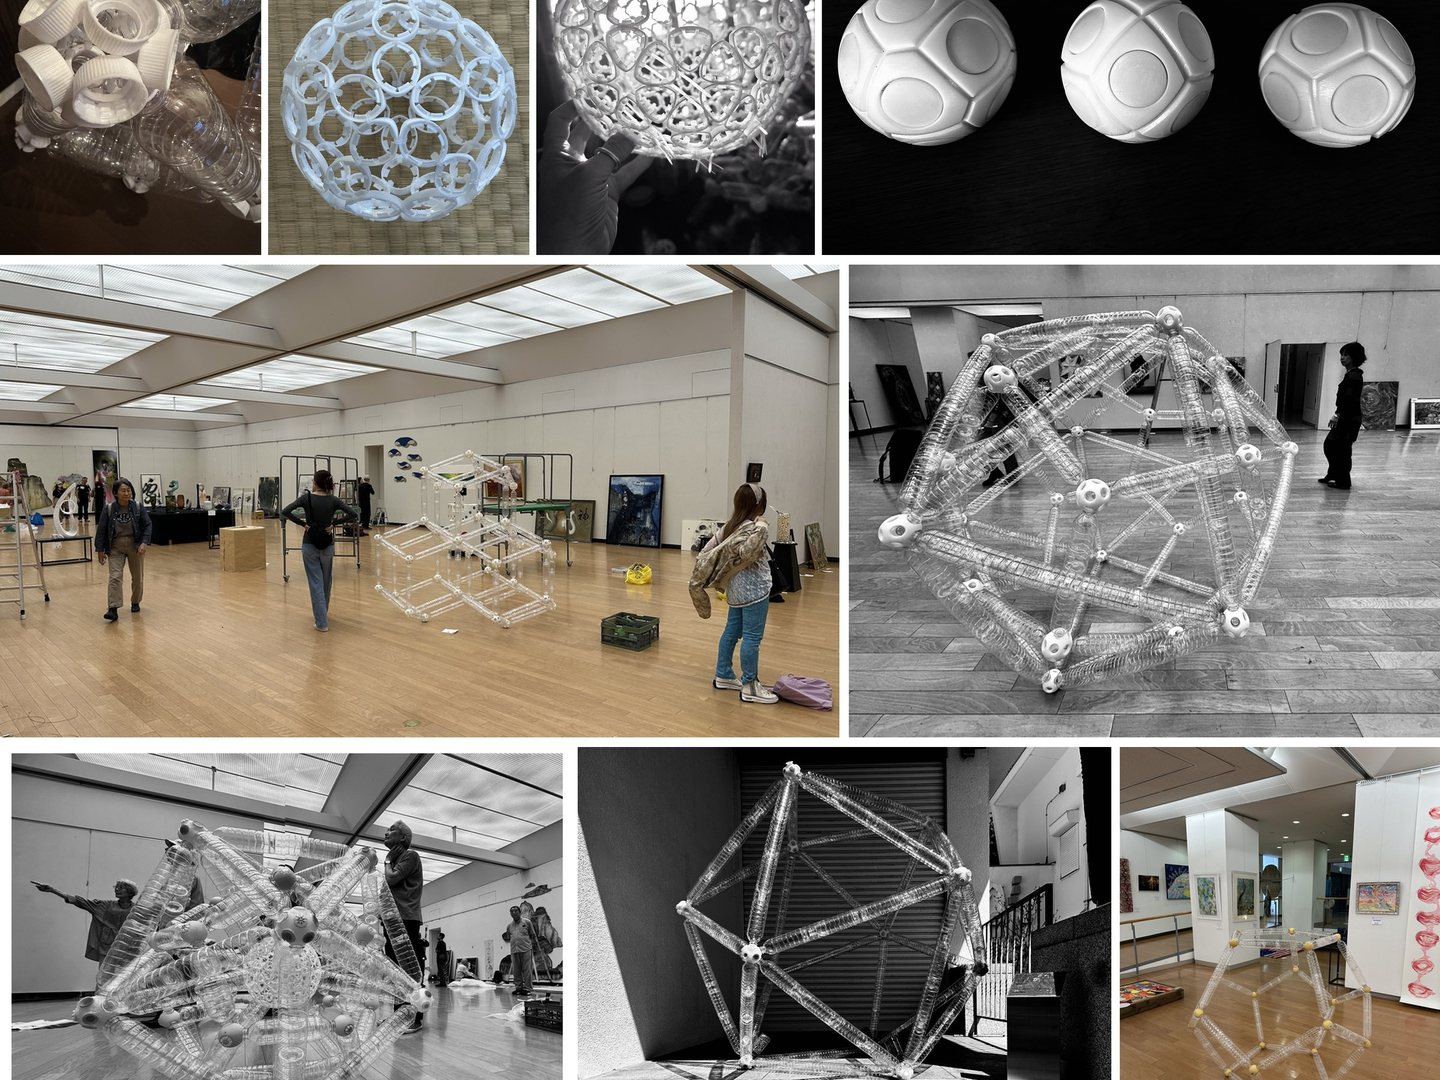
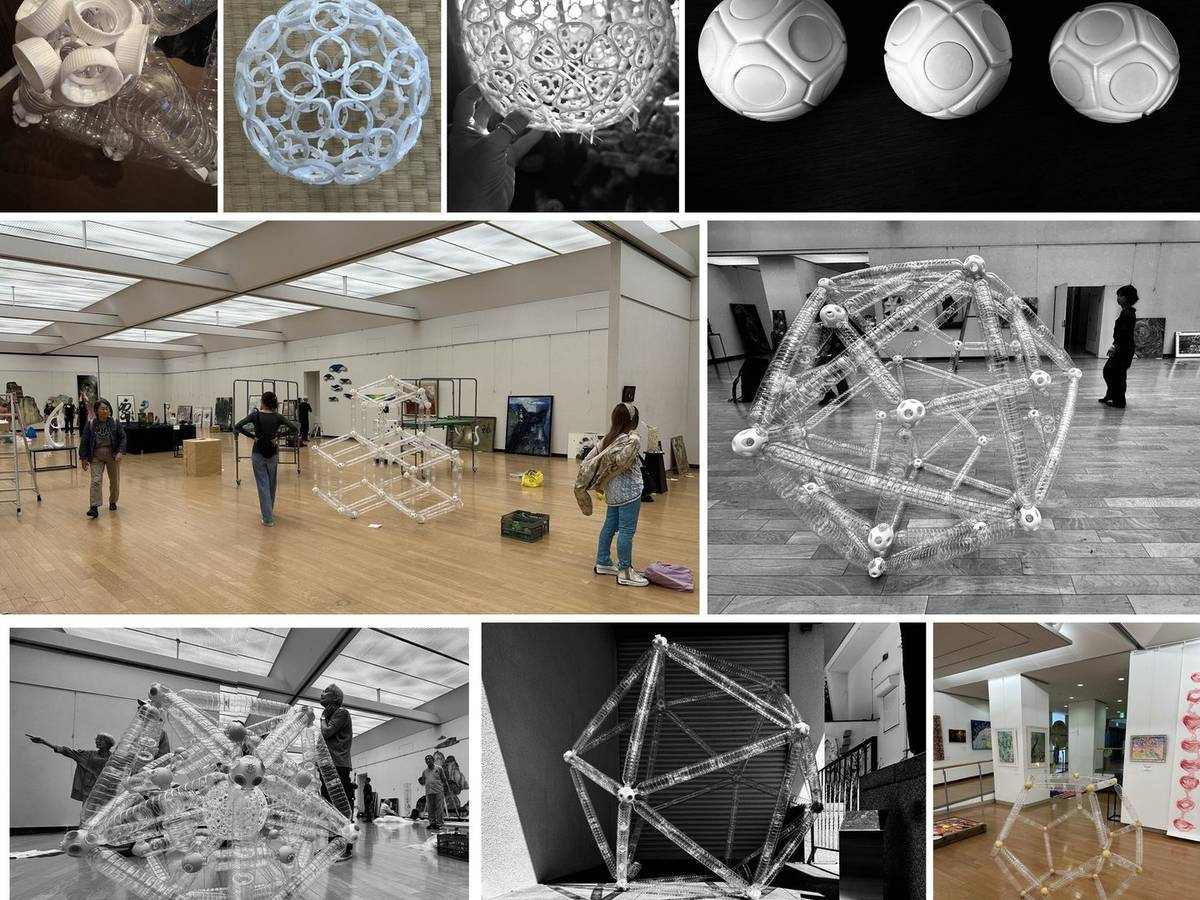
Smaller home-page pictures: octet collage and Global Web of Bonds card (1200x900, under 190 KB; was 360 KB each)

diff --git a/index.html b/index.html
@@ -168,12 +168,12 @@
       <div class="paper"><img src="papers/swap-rule.jpg?v=1" alt="Ganesha: a mixed tetrahedral piece of a squashed stacking, its bottom from the pure cubic piece (gold) and its top from the pure hexagonal piece (platinum)" loading="lazy" width="1440" height="1080"><span class="t"><span class="num">#61</span> The Swap Rule</span><span class="s">Squash the layers of a close-packed stacking and its tetrahedral holes become Janus pieces too: a top from one pure stacking, a bottom from the other. DICTO named them Ganesha. Proved exactly for every stacking: the two mixed pieces always add up to the two pure ones, and true close packing is the exact border.</span><span class="pdoi"><a class="doi-badge" href="https://doi.org/10.5281/zenodo.23682596" title="DICTO DOI, always the newest version"><span>DICTO DOI</span><span>10.5281/zenodo.23682596</span></a></span><span class="btns"><a class="btn" href="https://doi.org/10.5281/zenodo.23682596">Read paper</a></span></div>
       <div class="paper"><img src="papers/janus-ch-pyrochlore.jpg?v=1" alt="DICTO Janus c/h Pyrochlore: the corner-sharing tetrahedra of the pyrochlore network in the cubic (gold), hexagonal (platinum) and mixed 4H stackings" loading="lazy" width="1440" height="1080"><span class="t"><span class="num">#60</span> DICTO Janus c/h Pyrochlore</span><span class="s">DICTO's idea: the rule of halves of #57 on the pyrochlore network, the corner-sharing tetrahedra hidden in every diamond-like crystal, its layers stacked in any order. Proved exactly: every piece is borrowed from the pure cubic or hexagonal stacking — whole for the tetrahedra, and as Janus c/h halves for the open spaces where cubic meets hexagonal.</span><span class="pdoi"><a class="doi-badge" href="https://doi.org/10.5281/zenodo.23678750" title="DICTO DOI, always the newest version"><span>DICTO DOI</span><span>10.5281/zenodo.23678750</span></a></span><span class="btns"><a class="btn" href="https://doi.org/10.5281/zenodo.23678750">Read paper</a></span></div>
       <div class="paper"><img src="papers/icosaxes-hexa.jpg?v=1" alt="The Icosaxes Bloom: twenty green golden truncated octahedra on the corners of a dodecahedron, seen down a five-fold axis, a pentagonal window in the middle" loading="lazy" width="1440" height="1080"><span class="t"><span class="num">#59</span> The Icosaxes Hexa: Bloom, Bud and Seed</span><span class="s">DICTO's idea: the Hexa's move — pieces passing into each other until they close — with icosahedral symmetry. Twenty Icosaxes on a dodecahedron's corners touch as an open bloom with twelve windows, close into a bud at exactly 1/φ of that distance and fill into one solid seed at exactly one third (proved exactly). In the lattice, eight Icosaxes round an Unborn Axes form a network in which every Icosaxes is shared by exactly two blocks.</span><span class="pdoi"><a class="doi-badge" href="https://doi.org/10.5281/zenodo.23677485" title="DICTO DOI, always the newest version"><span>DICTO DOI</span><span>10.5281/zenodo.23677485</span></a></span><span class="btns"><a class="btn" href="https://doi.org/10.5281/zenodo.23677485">Read paper</a></span></div>
-      <div class="paper"><img src="papers/octet-to-every-stacking.jpg?v=1" alt="DICTO's PET-bottle work, from cap-ring spheres and the three DICTOspheres to room-sized structures" loading="lazy" width="1440" height="1080"><span class="t"><span class="num">#58</span> From the Octet to Every Stacking: the Web of Bonds</span><span class="s">The story of papers #40–#57, from DICTO's PET-bottle-cap DICTOspheres to the rule of halves: however layers of equal balls are stacked, the space is shared out into pieces of only finitely many kinds, each borrowed, whole or in half, from the cubic and the hexagonal stackings. Endless variety of order, from a finite set of quanta.</span><span class="pdoi"><a class="doi-badge" href="https://doi.org/10.5281/zenodo.23665944" title="DICTO DOI, always the newest version"><span>DICTO DOI</span><span>10.5281/zenodo.23665944</span></a></span><span class="btns"><a class="btn" href="https://doi.org/10.5281/zenodo.23665944">Read paper</a><a class="btn" href="https://kaleidohedra.dictospheres.com/?open=stackings:4H">View in app</a></span></div>
+      <div class="paper"><img src="papers/octet-to-every-stacking.jpg?v=2" alt="DICTO's PET-bottle work, from cap-ring spheres and the three DICTOspheres to room-sized structures" loading="lazy" width="1200" height="900"><span class="t"><span class="num">#58</span> From the Octet to Every Stacking: the Web of Bonds</span><span class="s">The story of papers #40–#57, from DICTO's PET-bottle-cap DICTOspheres to the rule of halves: however layers of equal balls are stacked, the space is shared out into pieces of only finitely many kinds, each borrowed, whole or in half, from the cubic and the hexagonal stackings. Endless variety of order, from a finite set of quanta.</span><span class="pdoi"><a class="doi-badge" href="https://doi.org/10.5281/zenodo.23665944" title="DICTO DOI, always the newest version"><span>DICTO DOI</span><span>10.5281/zenodo.23665944</span></a></span><span class="btns"><a class="btn" href="https://doi.org/10.5281/zenodo.23665944">Read paper</a><a class="btn" href="https://kaleidohedra.dictospheres.com/?open=stackings:4H">View in app</a></span></div>
       <div class="paper"><img src="papers/rule-of-halves.jpg?v=3" alt="The Rule of Halves: Fang and Chucky in metal on a starfield, each a hexagonal top half (platinum) on a cubic bottom half (gold), whole and drawn apart" loading="lazy" width="1440" height="1080"><span class="t"><span class="num">#57</span> The Rule of Halves</span><span class="s">DICTO's idea: follow the web of bonds onto every way of stacking close-packed layers. Proved exactly: each gap's piece comes from the two pure stackings, cubic and hexagonal. A tetrahedral gap takes the piece of its nearest layer; an octahedral gap is a top half and a bottom half, each from the layer on its side. So all stackings share a finite catalogue of pieces, and where a cubic layer meets a hexagonal one appear the Janus c/h pieces, half of each, named by DICTO: Chucky and Fang.</span><span class="pdoi"><a class="doi-badge" href="https://doi.org/10.5281/zenodo.23647898" title="DICTO DOI, always the newest version"><span>DICTO DOI</span><span>10.5281/zenodo.23647898</span></a></span><span class="btns"><a class="btn" href="https://doi.org/10.5281/zenodo.23647898">Read paper</a><a class="btn" href="https://kaleidohedra.dictospheres.com/?open=stackings:4H">View in app</a></span></div>
       <div class="paper"><img src="papers/sonsam-lahdeli.jpg?v=1" alt="Sonsam and Lahdeli: the cubic octet walk (Samson, Delilah, cube) above the twinned octet walk (Sonsam, Lahdeli, Ian Dury, the 60 degree rhombohedron, Blockhead)" loading="lazy" width="1440" height="1080"><span class="t"><span class="num">#56</span> Sonsam and Lahdeli</span><span class="s">Names by DICTO. Follow the web of bonds on the mirrored (hexagonal) stacking of the octet: it has its own equal-volume pair, Sonsam and Lahdeli, the twins of Samson and Delilah, then a stop the cubic side never makes, Ian Dury with the 60° rhombohedron, and ends in Blockheads where the cubic side ends in cubes. Keys change the pieces but never the web: Sonsam-K, Lahdeli-K, Ian Dury-K, Rhombo-K. And the Sunstar (#42) is rock salt's switch point keyed with Euclid's roofs. Proved exactly.</span><span class="pdoi"><a class="doi-badge" href="https://doi.org/10.5281/zenodo.23635823" title="DICTO DOI, always the newest version"><span>DICTO DOI</span><span>10.5281/zenodo.23635823</span></a></span><span class="btns"><a class="btn" href="https://doi.org/10.5281/zenodo.23635823">Read paper</a></span></div>
       <div class="paper"><img src="papers/one-turn-gnomon.jpg?v=1" alt="One Turn Is a Gnomon: the eleven steps of the golden cycle, each showing exactly what it adds, from the icosahedron out to the next icosahedron" loading="lazy" width="1440" height="1080"><span class="t"><span class="num">#54</span> One Turn Is a Gnomon</span><span class="s">DICTO's idea: carry the classical gnomon, the piece that makes a figure into a larger copy of itself, into three dimensions through his golden cycle of twelve nested solids. Built exactly, step by step: only the whole turn is a gnomon, the next icosahedron φ³ larger; no single step is. The step pieces are named Julias and Pimentels by DICTO, in tribute to Júlia Pimentel's square method. Also: the polar of the keyed pair.</span><span class="pdoi"><a class="doi-badge" href="https://doi.org/10.5281/zenodo.23633365" title="DICTO DOI, always the newest version"><span>DICTO DOI</span><span>10.5281/zenodo.23633365</span></a></span><span class="btns"><a class="btn" href="https://doi.org/10.5281/zenodo.23633365">Read paper</a></span></div>
       <div class="paper"><img src="papers/david-goliath.jpg?v=1" alt="David and Goliath: Goliath, the convex hull of Jessen's icosahedron, and David, a tetrahedron, filling space together in the A15 structure" loading="lazy" width="1440" height="1080"><span class="t"><span class="num">#55</span> David and Goliath</span><span class="s">Names by DICTO. Slide the weight in the A15 alloy structure and at one exact point the space falls into two pieces: Goliath, Jessen's famous icosahedron filled out to a convex solid, and David, a small tetrahedron that touches only Goliaths. It is the classical A15 picture of Frank and Kasper, reached by the global web of bonds (#53); with the octet, rock salt and zinc blende pairs it supports the theorem. Proved exactly.</span><span class="pdoi"><a class="doi-badge" href="https://doi.org/10.5281/zenodo.23632358" title="DICTO DOI, always the newest version"><span>DICTO DOI</span><span>10.5281/zenodo.23632358</span></a></span><span class="btns"><a class="btn" href="https://doi.org/10.5281/zenodo.23632358">Read paper</a></span></div>
-      <div class="paper"><img src="papers/global-web-of-bonds.jpg?v=1" alt="The Global Web of Bonds: the square and honeycomb networks at their named stops and switch points, with the bonds drawn" loading="lazy" width="1440" height="1080"><span class="t"><span class="num">#53</span> The Global Web of Bonds</span><span class="s">DICTO's idea: the DICTONIC hand-overs should show up elsewhere in other networks. Proved for ten classical crystal networks and the perovskite: every weight walk exactly, every switch, and the bonds on every stretch. Both DICTONIC styles recur: a single switch where only unlike bonds remain (the square tiling, the trihexagonal tiling, rock salt's cubes, the octet), and gradual hand-overs elsewhere. And the bond between unlike pieces can never break while both kinds exist.</span><span class="pdoi"><a class="doi-badge" href="https://doi.org/10.5281/zenodo.23631140" title="DICTO DOI, always the newest version"><span>DICTO DOI</span><span>10.5281/zenodo.23631140</span></a></span><span class="btns"><a class="btn" href="https://doi.org/10.5281/zenodo.23631140">Read paper</a><a class="btn" href="https://kaleidohedra.dictospheres.com/?open=globalWeb">View in app</a></span></div>
+      <div class="paper"><img src="papers/global-web-of-bonds.jpg?v=2" alt="The Global Web of Bonds: the square and honeycomb networks at their named stops and switch points, with the bonds drawn" loading="lazy" width="1200" height="900"><span class="t"><span class="num">#53</span> The Global Web of Bonds</span><span class="s">DICTO's idea: the DICTONIC hand-overs should show up elsewhere in other networks. Proved for ten classical crystal networks and the perovskite: every weight walk exactly, every switch, and the bonds on every stretch. Both DICTONIC styles recur: a single switch where only unlike bonds remain (the square tiling, the trihexagonal tiling, rock salt's cubes, the octet), and gradual hand-overs elsewhere. And the bond between unlike pieces can never break while both kinds exist.</span><span class="pdoi"><a class="doi-badge" href="https://doi.org/10.5281/zenodo.23631140" title="DICTO DOI, always the newest version"><span>DICTO DOI</span><span>10.5281/zenodo.23631140</span></a></span><span class="btns"><a class="btn" href="https://doi.org/10.5281/zenodo.23631140">Read paper</a><a class="btn" href="https://kaleidohedra.dictospheres.com/?open=globalWeb">View in app</a></span></div>
       <div class="paper"><img src="papers/web-of-bonds.jpg?v=1" alt="The Web of Bonds: the exact size of each kind of bond along the golden loop (gradual hand-over, equal at Kelvin) and the Delian loop (hand-over at the octet)" loading="lazy" width="1440" height="1080"><span class="t"><span class="num">#52</span> The Web of Bonds</span><span class="s">DICTO's idea: the network of bonds of the DICTONIC SOLIDS should make a web of lattices that changes with the rhythm of the loop. Proved: both loops are weighted tilings of fixed points, the caesium chloride and fluorite crystal structures, and the web of bonds is their exact dual. The golden bonds hand over gradually, with no switch; the Delian bonds hand over at the octet, the one point where a single kind of bond holds both pieces. Read as atoms, the weights are squared atom sizes, the touching ranges end at Pauling's limits, and real crystals sit on the loops.</span><span class="pdoi"><a class="doi-badge" href="https://doi.org/10.5281/zenodo.23629252" title="DICTO DOI, always the newest version"><span>DICTO DOI</span><span>10.5281/zenodo.23629252</span></a></span><span class="btns"><a class="btn" href="https://doi.org/10.5281/zenodo.23629252">Read paper</a><a class="btn" href="https://kaleidohedra.dictospheres.com/?open=dictonic:delian">View in app</a></span></div>
       <div class="paper"><img src="papers/delian-bond.jpg?v=1" alt="The Delian Bond: Samson, a cube with four alternate corners cut, and Delilah, a regular octahedron, from two sides and face to face; below, Samsons and Delilahs filling space" loading="lazy" width="1440" height="1080"><span class="t"><span class="num">#51</span> The Delian Bond</span><span class="s">DICTO's idea: do for the tetrahedron, octahedron and cube what #48 did for the icosahedron. One sliding cut through the octet's tetrahedra and octahedra gives two convex solids that fill space at every position, from Kepler's rhombic dodecahedron to the cube. At one cut they have exactly equal volume, one doubled and one halved, as in the ancient Delian problem: DICTO's Samson and Delilah. With #48, the six DICTONIC SOLIDS in three DICTONIC BONDS. Proved exactly.</span><span class="pdoi"><a class="doi-badge" href="https://doi.org/10.5281/zenodo.23606828" title="DICTO DOI, always the newest version"><span>DICTO DOI</span><span>10.5281/zenodo.23606828</span></a></span><span class="btns"><a class="btn" href="https://doi.org/10.5281/zenodo.23606828">Read paper</a><a class="btn" href="https://kaleidohedra.dictospheres.com/?open=dictonic:delian">View in app</a></span></div>
       <div class="paper"><img src="papers/one-move-each.jpg?v=1" alt="One Move Each: the regular-hexagon elongated dodecahedron made by Kaleidohedra, beside the classical truncated octahedron with one zone shrunk to nothing" loading="lazy" width="1440" height="1080"><span class="t"><span class="num">#50</span> One Move Each</span><span class="s">DICTO's idea: solids that the books build by cutting and gluing appear in his app whole. Proved: five classical space-fillers, among them the elongated, Bain and Bilinski dodecahedra and the 60° rhombohedron, each come from one setting of Kaleidohedra's lattice moves, with exact corners, volumes and symmetry, and match their classical constructions corner by corner.</span><span class="pdoi"><a class="doi-badge" href="https://doi.org/10.5281/zenodo.23606894" title="DICTO DOI, always the newest version"><span>DICTO DOI</span><span>10.5281/zenodo.23606894</span></a></span><span class="btns"><a class="btn" href="https://doi.org/10.5281/zenodo.23606894">Read paper</a></span></div>
